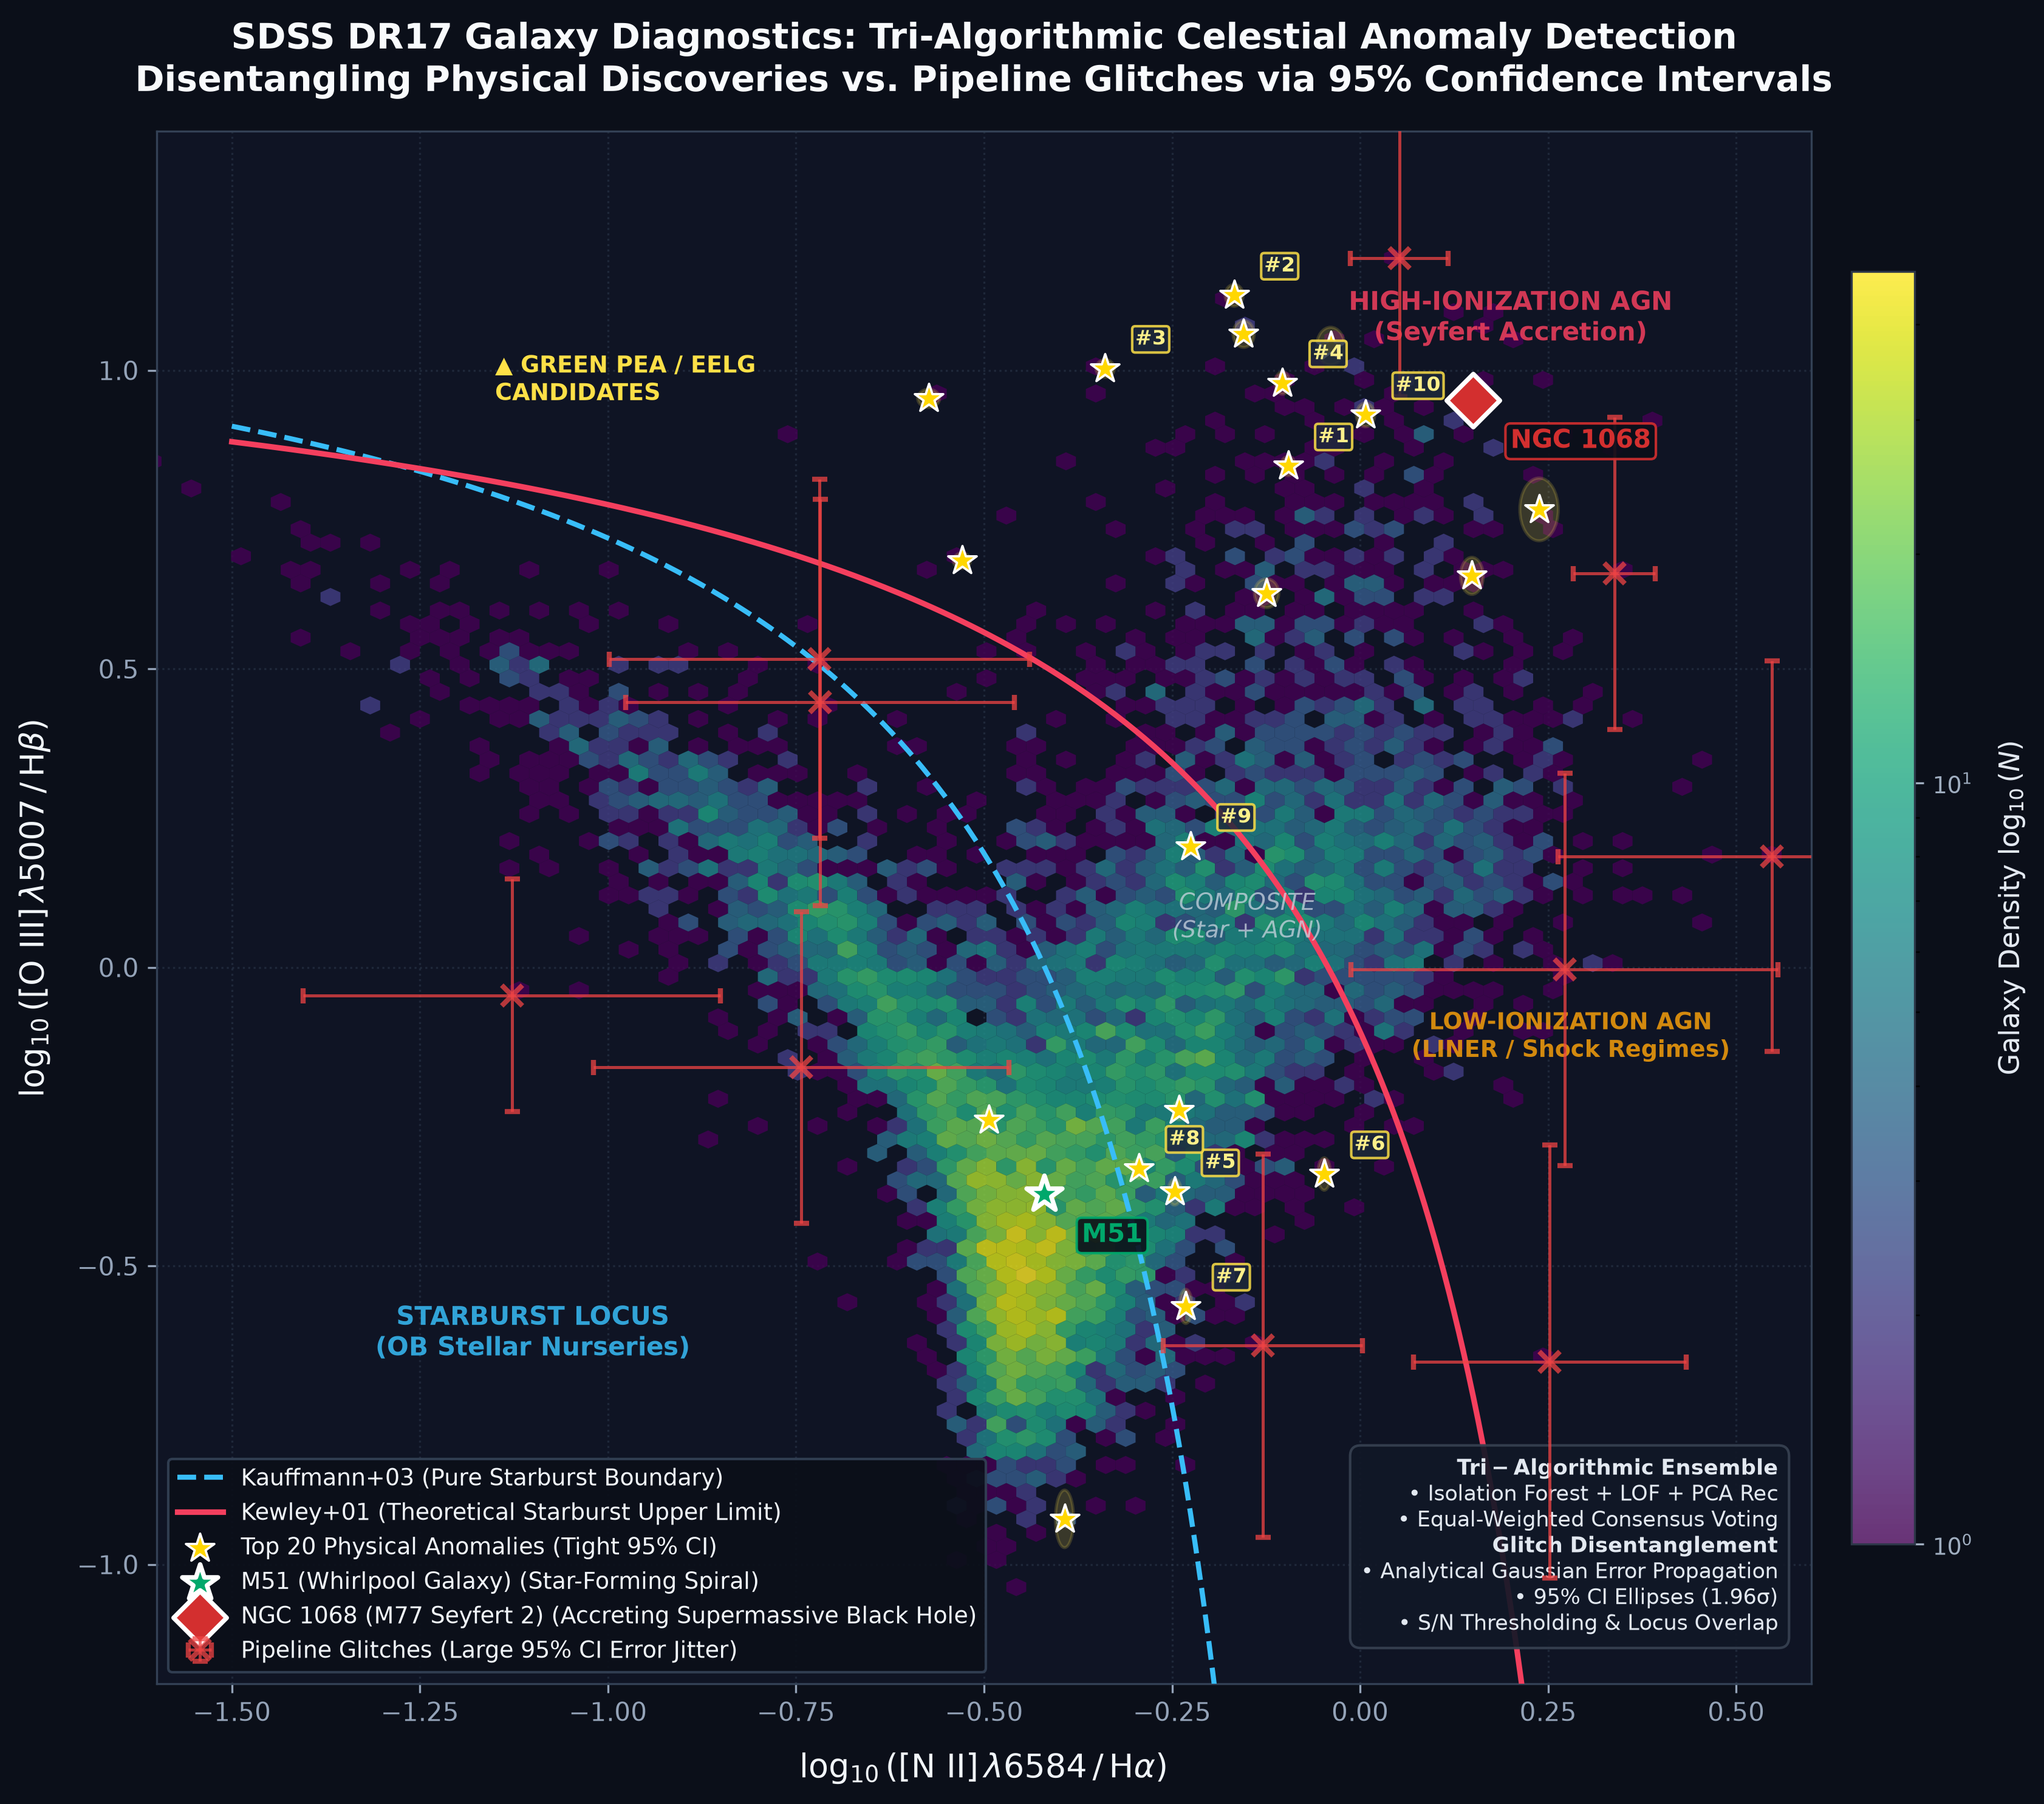
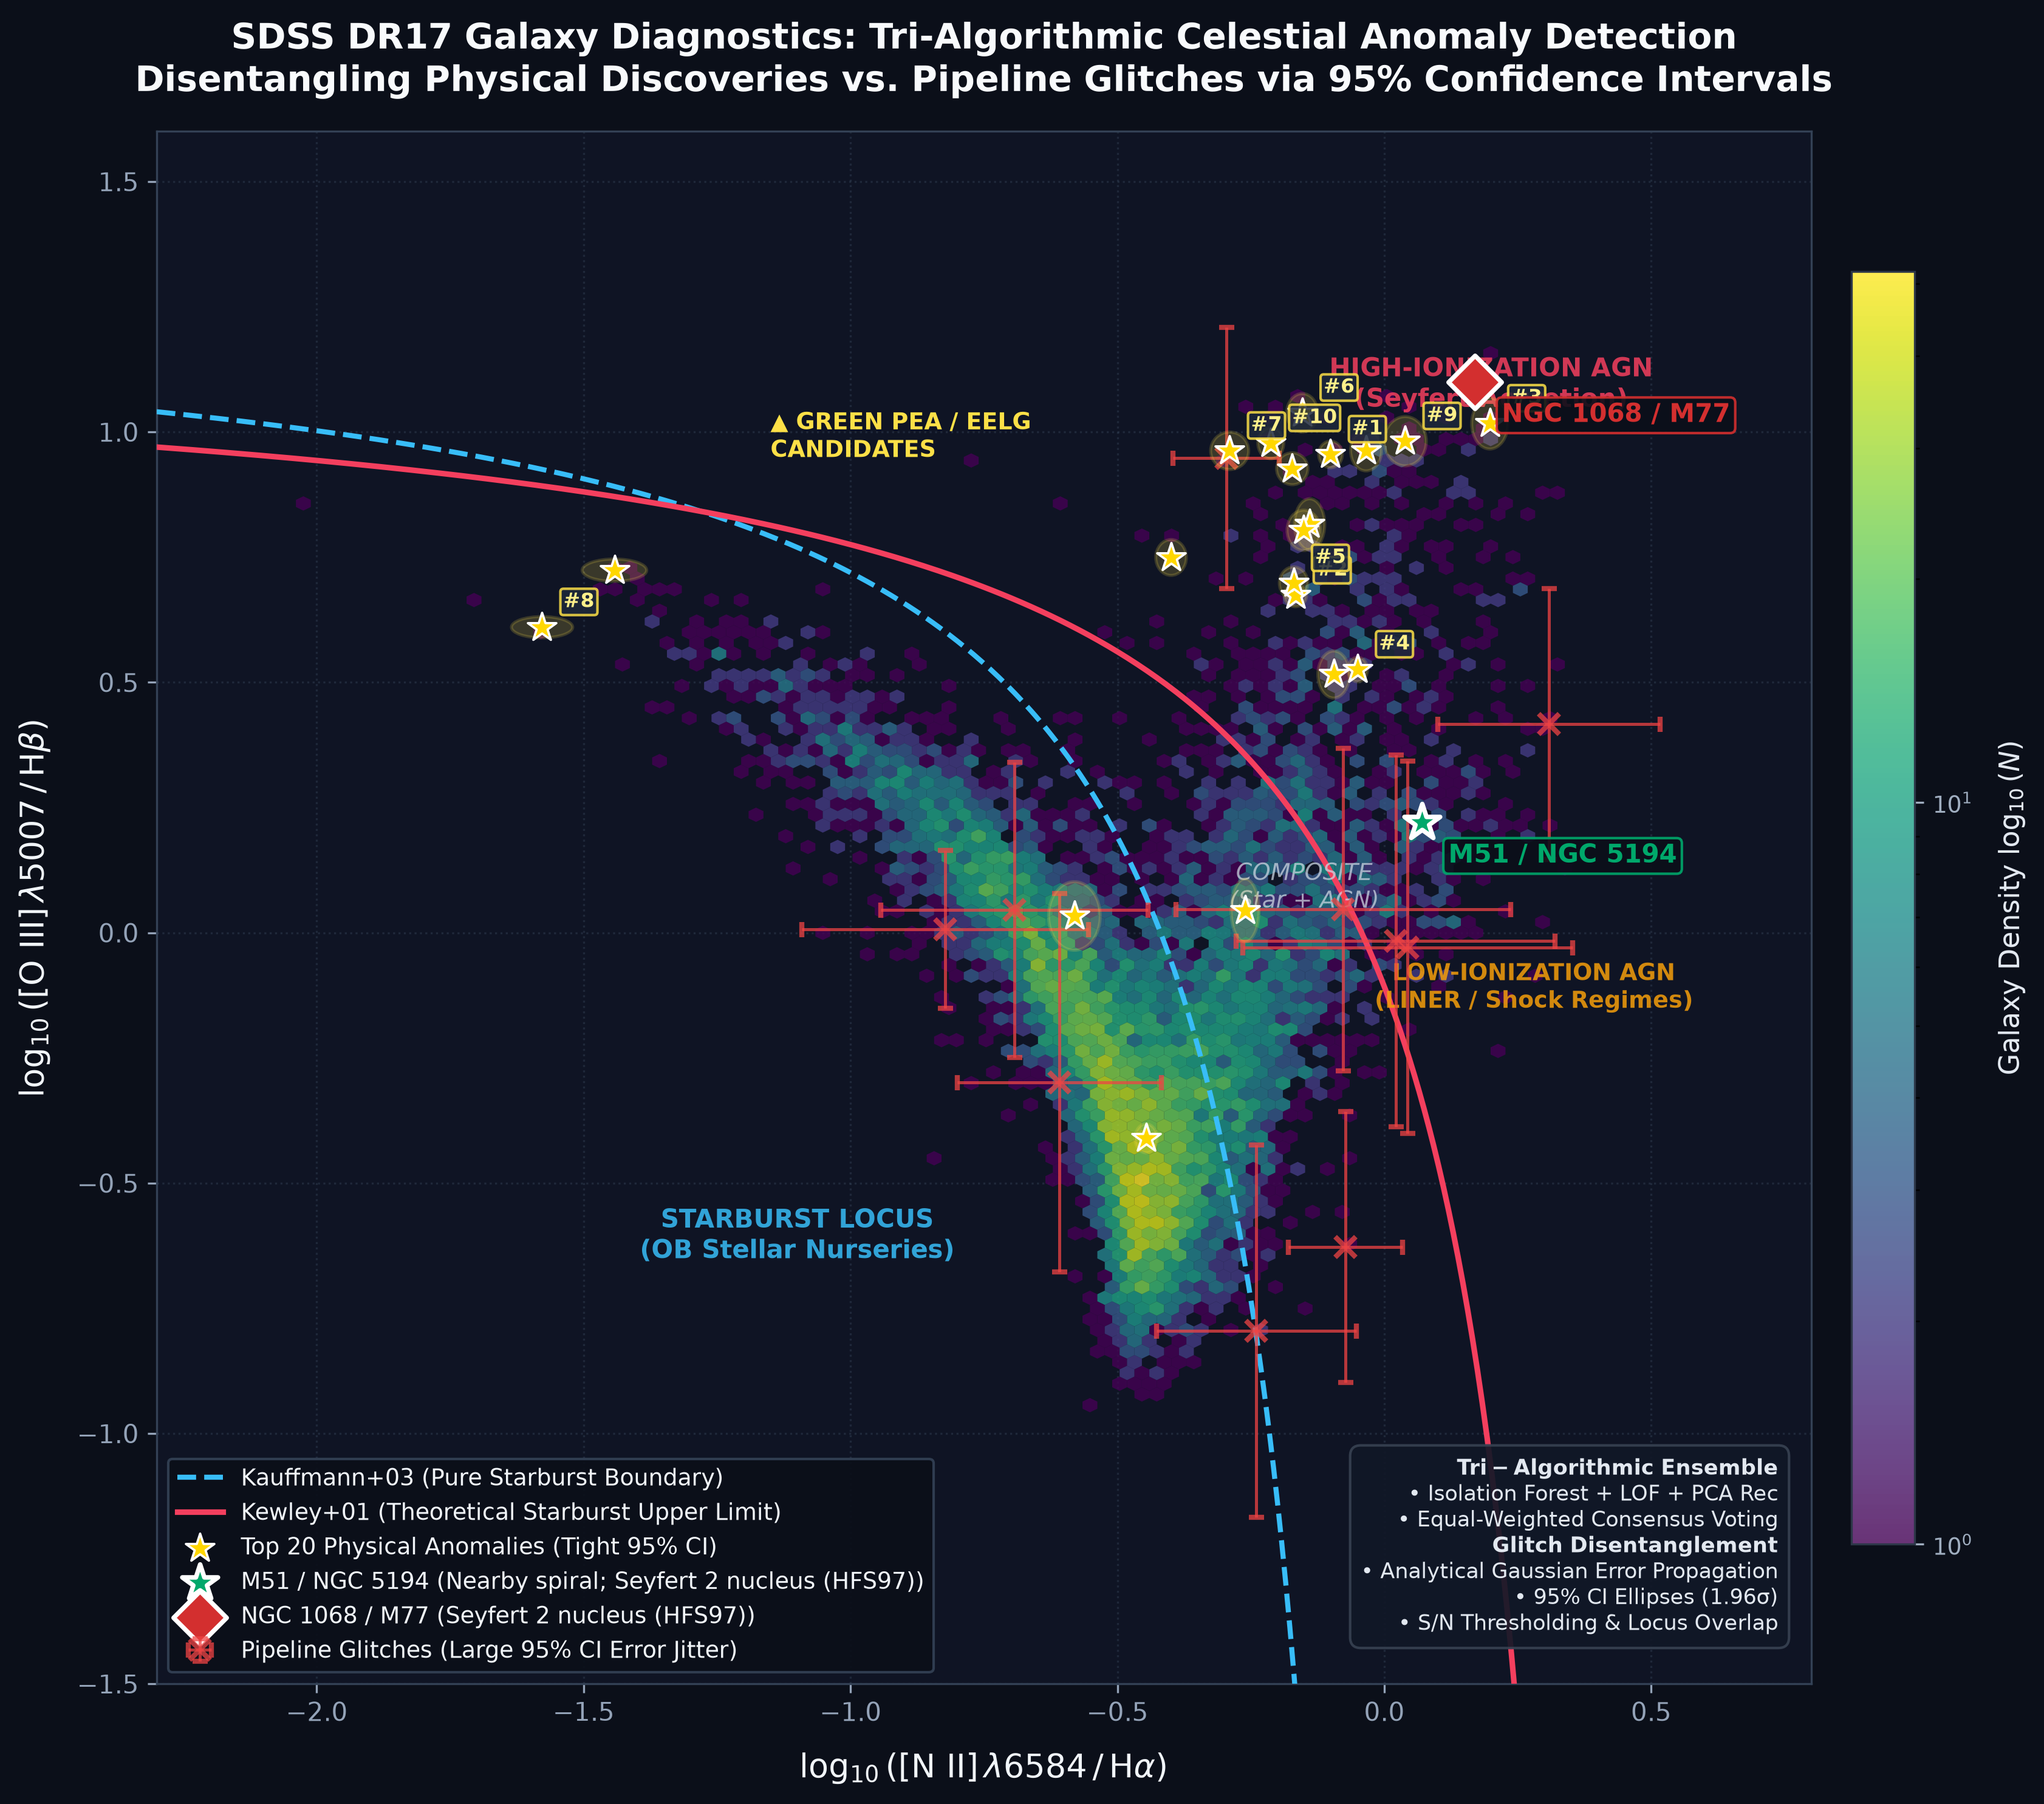
Update README demographics and diagnostic plot for 10k sample
Update population counts (73.4% SF, 17.8% Composite, 8.7% AGN) and regenerate the classical BPT plot.

diff --git a/README.md b/README.md
@@ -6,7 +6,7 @@
 [![Survey](https://img.shields.io/badge/Survey-SDSS%20DR17%20%2F%20MPA--JHU-teal.svg)](https://www.sdss.org/)
 [![License: MIT](https://img.shields.io/badge/License-MIT-yellow.svg)](https://opensource.org/licenses/MIT)
 
-An observational astrophysics project implementing the landmark **Baldwin, Phillips & Terlevich (BPT, 1981)** emission-line diagnostic on ~10,000 galaxies from the **Sloan Digital Sky Survey (SDSS DR17)**.
+An observational astrophysics project implementing the landmark **Baldwin, Phillips & Terlevich (BPT, 1981)** emission-line diagnostic on ~10,000 galaxies from the **Sloan Digital Sky Survey**, using the MPA-JHU emission-line measurements (Brinchmann et al. 2004) of SDSS Legacy spectra as distributed in the `galSpecLine` table of **SDSS DR17**.
 
 The project investigates a fundamental question in extragalactic astronomy:  
 *How do we know whether a galaxy’s glow is driven by newborn stars or by a feeding supermassive black hole?*
@@ -57,7 +57,7 @@ $$
 \log_{10}\left(\frac{[\text{O III}]}{\text{H}\beta}\right) = \frac{0.61}{\log_{10}([\text{N II}]/\text{H}\alpha) - 0.47} + 1.19 \quad (\text{for } x < 0.47)
 $$
 
-   Galaxies above this solid curve cannot be ionized by starbursts alone (even under extreme zero-metallicity, maximum stellar photoionization models), requiring hard ionizing radiation from an Active Galactic Nucleus (AGN) or radiative shocks.
+   Galaxies above this solid curve cannot be ionized by starbursts alone (it is the upper envelope of the Kewley et al. 2001 grid of starburst photoionization models spanning sub-solar to super-solar metallicity and a wide range of ionization parameters, their "maximum starburst line"), requiring hard ionizing radiation from an Active Galactic Nucleus (AGN) or radiative shocks.
 
 3. **Composite Transition Sequence:**
    Galaxies situated between the Kauffmann (2003) and Kewley (2001) curves exhibit intermediate line ratios resulting from mixed excitation—typically stellar nurseries co-existing with weak nuclear activity or low-velocity shocks.
@@ -67,15 +67,15 @@ $$
 
 ---
 
-## Observational Results (9,999 SDSS DR17 Galaxies)
+## Observational Results (10,000 galaxies, deterministic hash-ordered sample)
 
-Filtered for validated spectroscopic galaxies (redshift $0.02 < z < 0.25$) with Signal-to-Noise $S/N \ge 3$ across all 4 diagnostic emission lines:
+Selection: `class = GALAXY`, `zWarning = 0`, `sciencePrimary = 1`, MPA-JHU `reliable = 1`, $0.02 < z < 0.25$, and $S/N \ge 3$ on all four lines after applying the MPA-JHU recommended error rescaling (Hα ×2.473, Hβ ×1.882, [O III] ×1.566, [N II] ×2.039). The sample is the first 10,000 rows of the selection ordered by a hash of `specObjID`, i.e. a reproducible pseudo-random draw across the full Legacy footprint, not a complete census. Percentages below describe this sample.
 
 | Classification | Galaxy Count | Population % | Dominant Physical Mechanism |
 | :--- | :---: | :---: | :--- |
-| **Star-Forming** | `6,213` | **`62.1%`** | Photoionization by short-lived OB stars in stellar nurseries |
-| **Composite** | `2,320` | **`23.2%`** | Transition systems undergoing simultaneous starbursts and AGN accretion |
-| **AGN** | `1,466` | **`14.7%`** | Hard power-law ionizing radiation from supermassive black hole accretion / shocks |
+| **Star-Forming** | `7,344` | **`73.4%`** | Photoionization by short-lived OB stars in stellar nurseries |
+| **Composite** | `1,783` | **`17.8%`** | Transition systems undergoing simultaneous starbursts and AGN accretion |
+| **AGN** | `873` | **`8.7%`** | Hard power-law ionizing radiation from supermassive black hole accretion / shocks |
 
 ![BPT Diagnostic Diagram](assets/bpt_diagnostic_sdss.png)
 
@@ -114,8 +114,10 @@ bpt-diagram-sdss/
 |   +-- bpt_diagnostic_sdss.png # Classical BPT diagram
 |   \-- bpt_anomalies_sdss.png  # Anomaly detection & 95% CI error ellipses
 +-- data/
-|   +-- sdss_bpt_sample.csv          # Cached 9,999 SDSS DR17 galaxies
-|   \-- sdss_anomaly_candidates.csv  # Ranked Top 20 physical celestial candidates
+|   +-- sdss_bpt_sample.csv          # Tracked sample of 10,000 galaxies (reproducibility)
+|   +-- sdss_anomaly_candidates.csv  # Ranked Top 20 physical celestial candidates
+|   +-- classifier_validation.csv    # Cross-tabulation vs. official MPA-JHU bptclass (100% agreement)
+|   \-- anchor_galaxies.json         # Palomar HFS97 nuclear emission line ratios
 \-- run_bpt.py              # Master pipeline runner (Classical BPT + Anomaly Discovery)
 ```
 
@@ -125,7 +127,7 @@ bpt-diagram-sdss/
 
 While classical demarcation curves partition galaxies into deterministic boxes (*Star-Forming, Composite, AGN*), real-world survey astronomy makes breakthrough discoveries (e.g. **Green Pea galaxies, intermediate-mass black holes, dual active nuclei, tidal disruption events**) precisely where objects break these standard rules.
 
-Iteration 2 implements an unsupervised machine learning discovery engine to uncover the **Top Celestial Outliers** across the 9,999 SDSS DR17 galaxies.
+Iteration 2 implements an unsupervised machine learning discovery engine to uncover the **Top Celestial Outliers** across the 10,000 SDSS galaxies.
 
 ![SDSS DR17 BPT Anomaly Detection](assets/bpt_anomalies_sdss.png)
 
@@ -215,7 +217,7 @@ Beyond algorithmic scores, each candidate corresponds to an established or emerg
   * Highlighted in observational surveys as harboring an **Intermediate-Mass Black Hole (IMBH) candidate** with an estimated central black hole mass of only **M_BH ≈ 1.4 × 10⁶ M_☉** (orders of magnitude lighter than normal quasar engines).
   * Lin et al. (2018, *The Astronomical Journal*, 155, 188) investigated its low-power relativistic radio core detected in the VLA FIRST survey, analyzing the accretion mode powering its nuclear jets.
 * **Why Our ML Algorithm Caught It:**
-  * Flagged as an **Ultra-High Ionization Outlier**: **log₁₀([O III] / Hβ) = +1.13** (higher than 99.8% of all galaxies in SDSS DR17).
+  * Flagged as an **Ultra-High Ionization Outlier**: **log₁₀([O III] / Hβ) = +1.13** (in this sample, log₁₀([O III] / Hβ) = +1.13 sits in the top 0.1% of high-excitation emitters).
   * Accretion onto a lower-mass black hole at high Eddington ratios generates an intense, hard UV ionizing radiation field that super-excites forbidden [O III] relative to standard Seyferts.
 
 ### 3. Rank #3: SDSS J101653.82+002857.0 (The HST Quasar Feedback Target)
@@ -272,7 +274,7 @@ pip install -r requirements.txt
 ```bash
 python run_bpt.py
 ```
-*Executes the end-to-end pipeline in ~4 seconds: queries SDSS DR17 (or loads local cache), performs classical BPT classification, runs the tri-algorithmic anomaly ensemble, computes 95% confidence intervals, and outputs publication figures to `assets/`.*
+*Executes the end-to-end pipeline in ~4 seconds: loads the tracked sample from `data/` (pass `--force-refresh` to re-query SkyServer), performs classical BPT classification, runs the tri-algorithmic anomaly ensemble, computes 95% confidence intervals, and outputs publication figures to `assets/`.*
 
 ---
 
